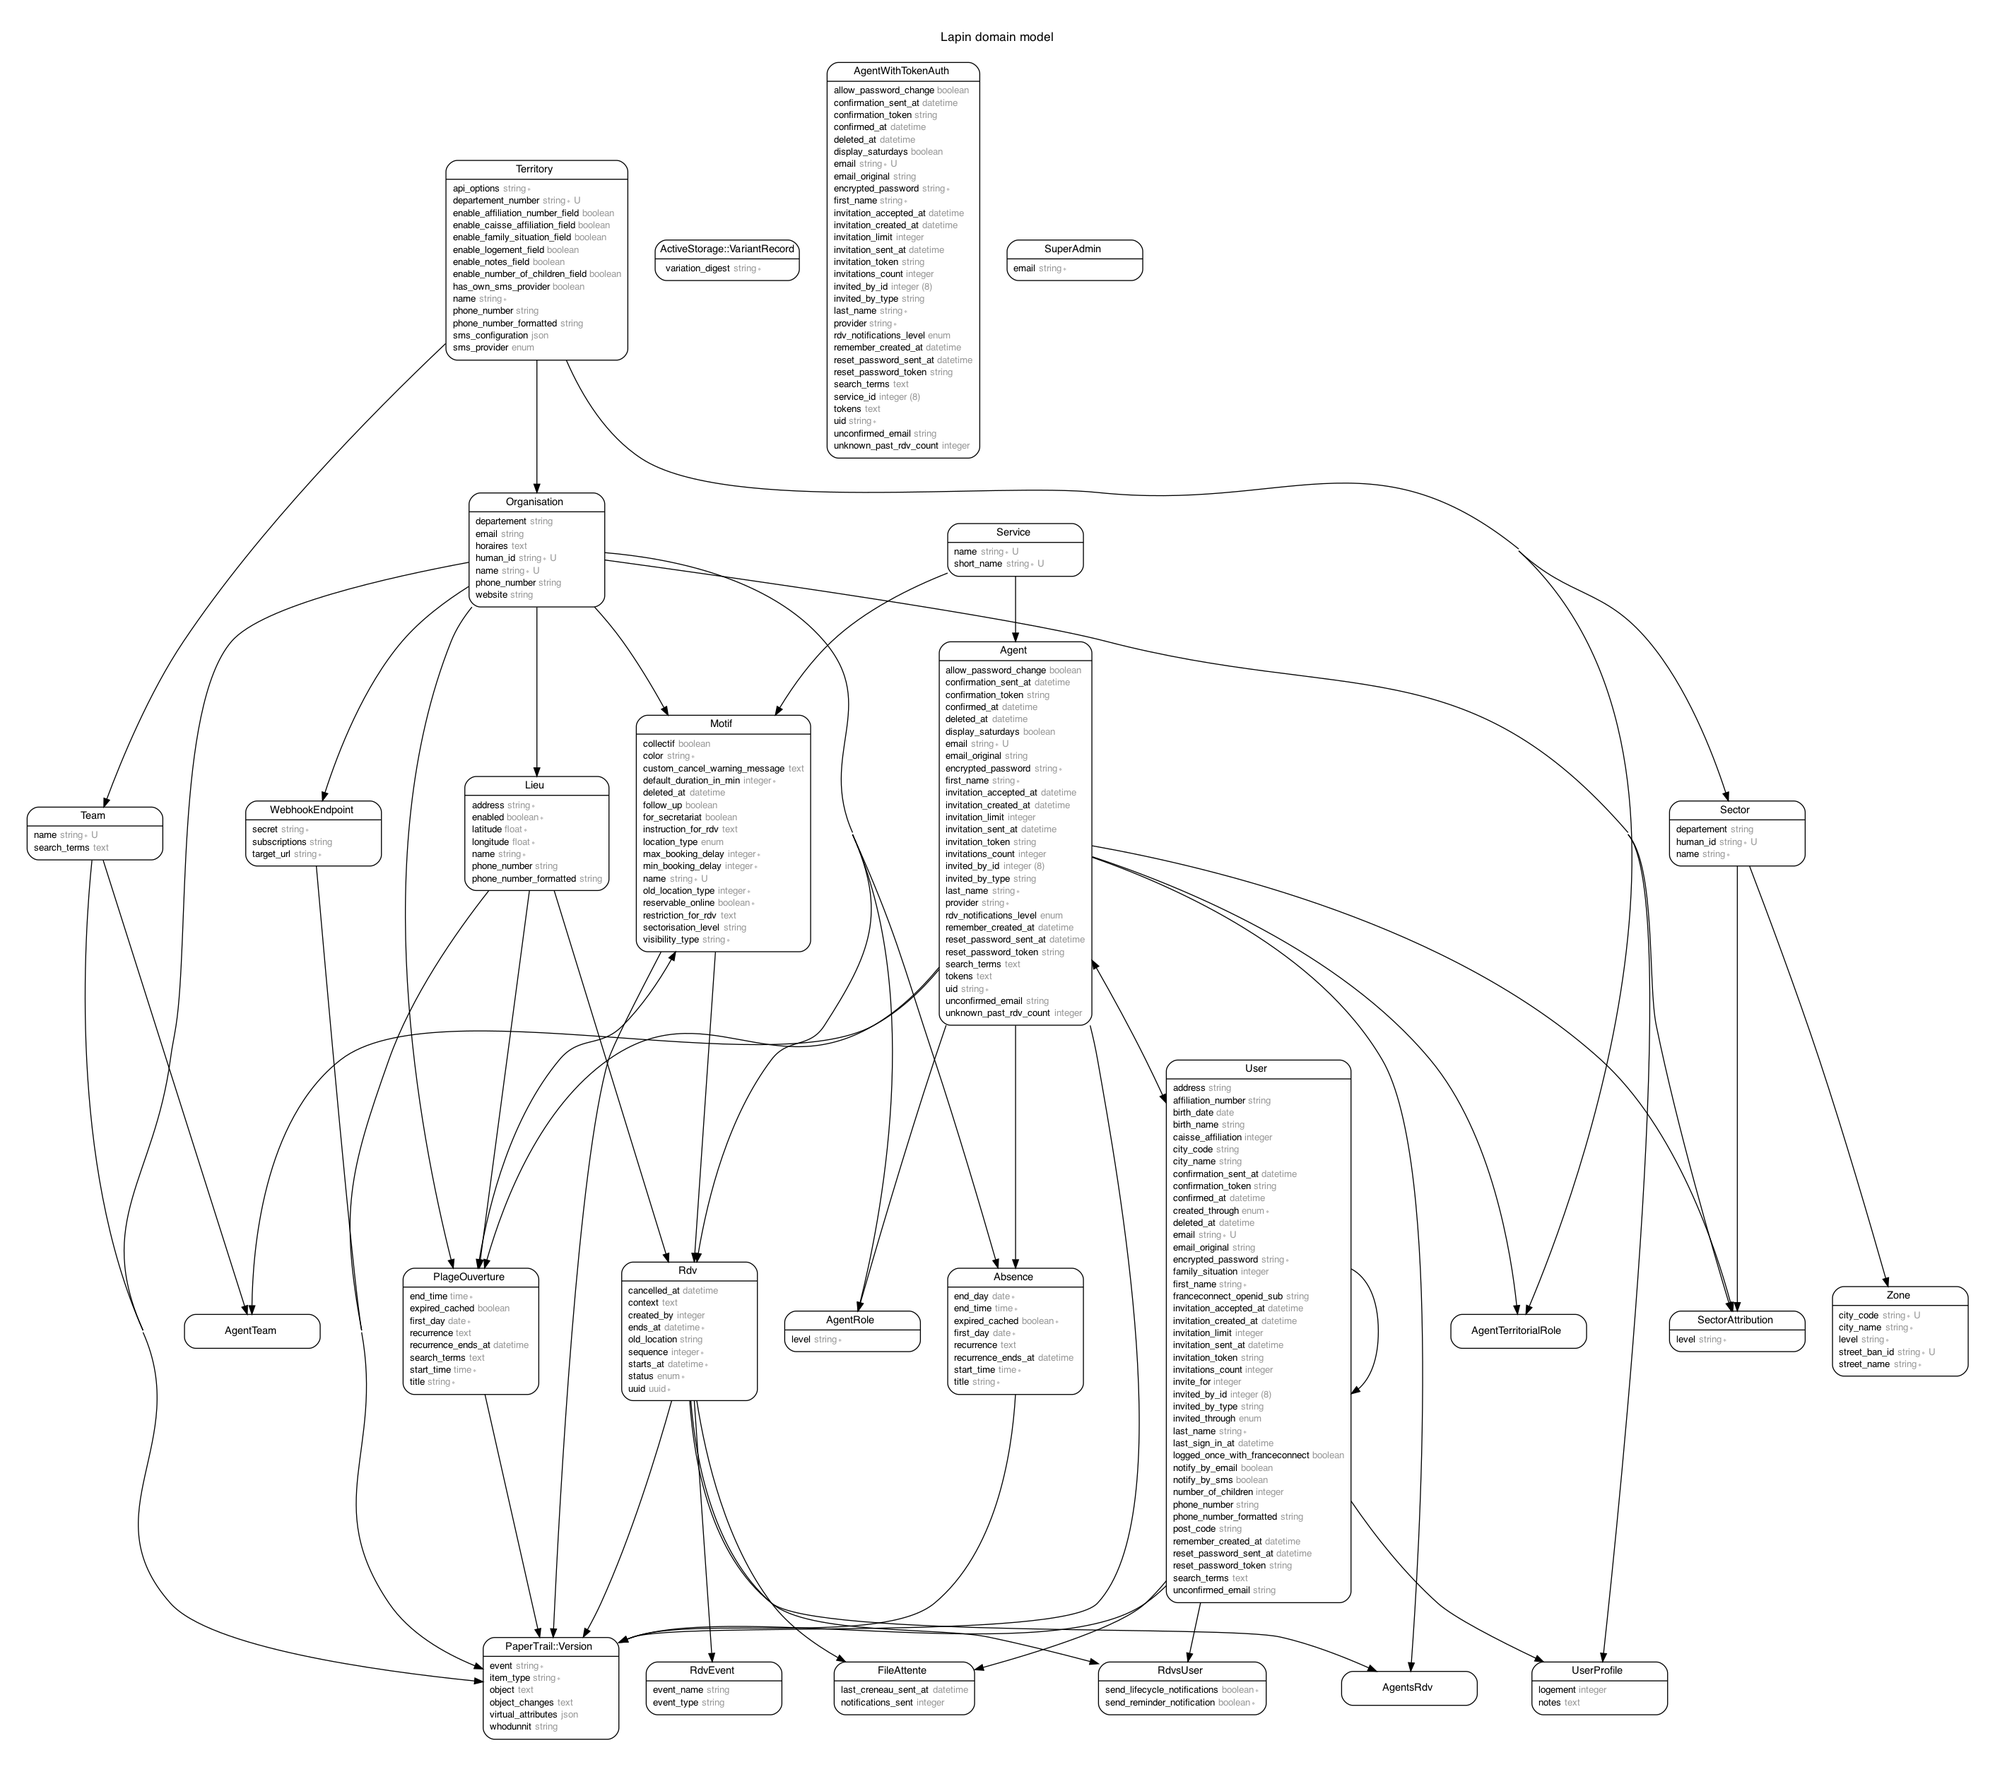
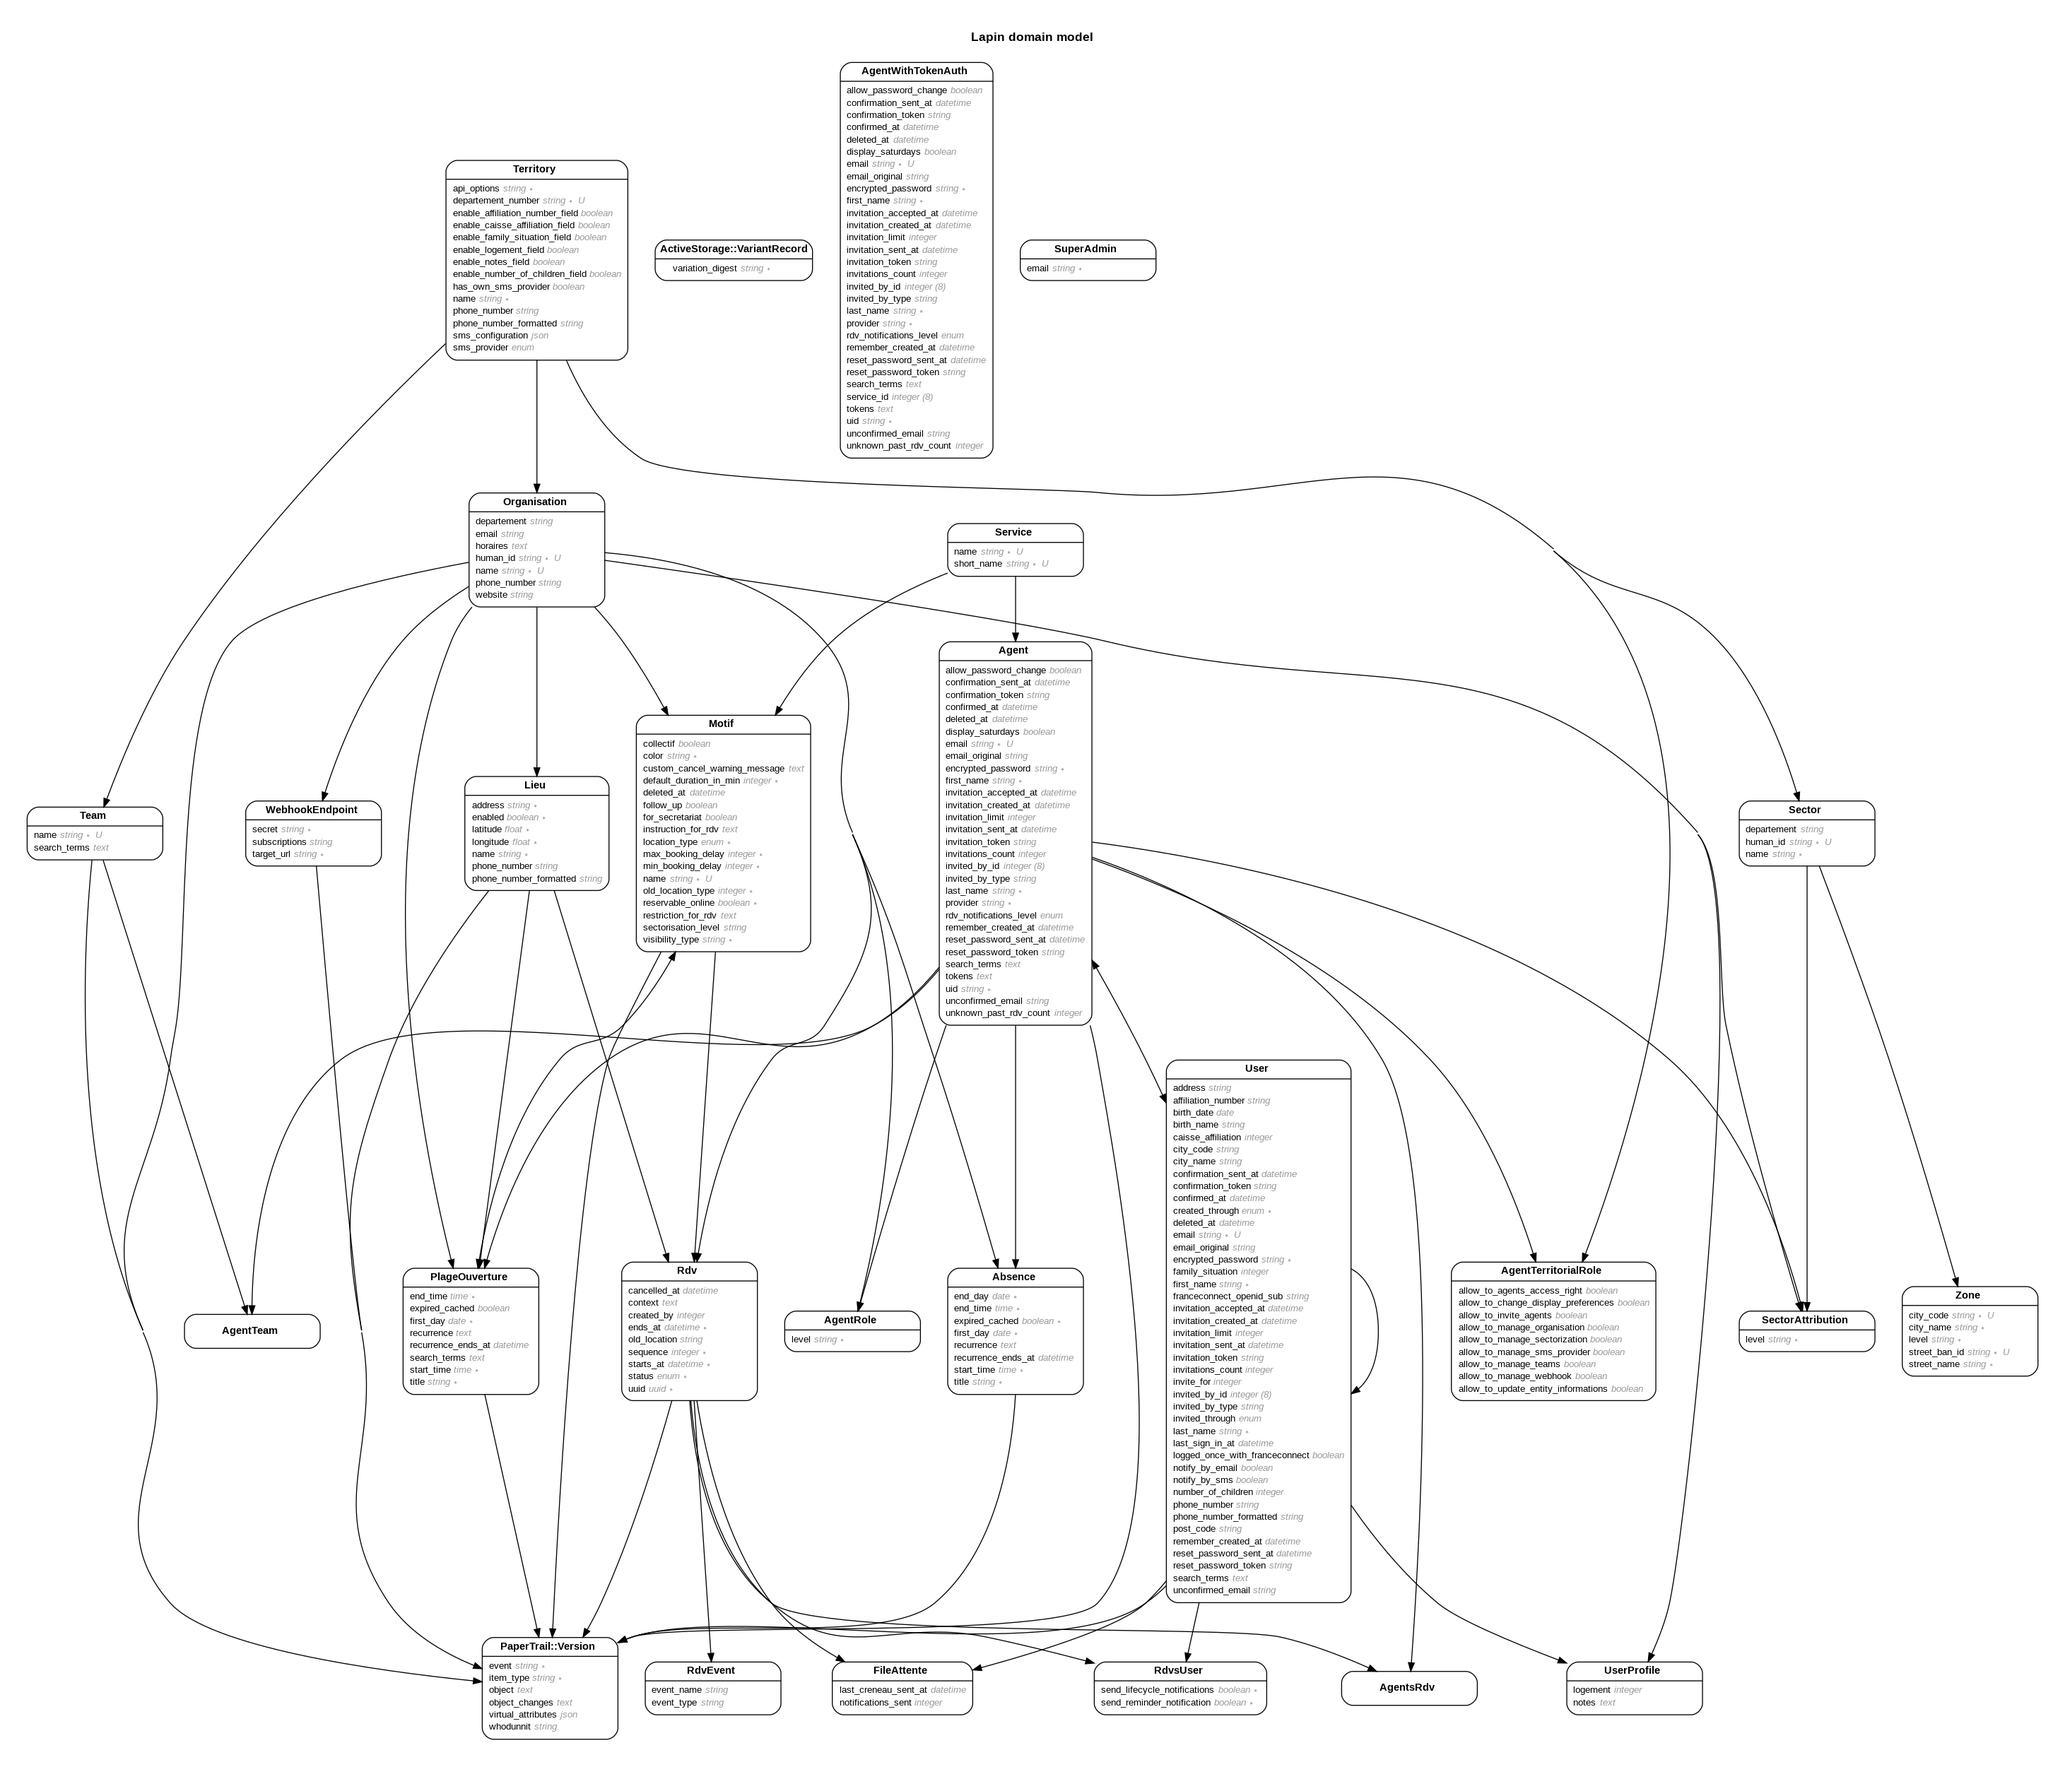
ajoute les droits de base

diff --git a/spec/controllers/admin/territories/agent_territorial_roles_controller_spec.rb b/spec/controllers/admin/territories/agent_territorial_roles_controller_spec.rb
@@ -2,15 +2,14 @@
 
 describe Admin::Territories::AgentTerritorialRolesController, type: :controller do
   render_views
-
-  let!(:territory) { create(:territory, departement_number: "62") }
-  let!(:organisation) { create(:organisation, territory: territory) }
-
-  before do
-    sign_in agent
-  end
-
   describe "#index" do
+    let!(:territory) { create(:territory, departement_number: "62") }
+    let!(:organisation) { create(:organisation, territory: territory) }
+
+    before do
+      sign_in agent
+    end
+
     context "with a few other agents" do
       let!(:territory2) { create(:territory, departement_number: "64") }
       let!(:agent) do
@@ -78,6 +77,13 @@ describe Admin::Territories::AgentTerritorialRolesController, type: :controller 
   end
 
   describe "#new" do
+    let!(:territory) { create(:territory, departement_number: "62") }
+    let!(:organisation) { create(:organisation, territory: territory) }
+
+    before do
+      sign_in agent
+    end
+
     context "territorial admin agent signed in" do
       let!(:agent) do
         create(
@@ -137,6 +143,7 @@ describe Admin::Territories::AgentTerritorialRolesController, type: :controller 
       delete :destroy, params: { territory_id: territory.id, id: target_agent_territorial_role.id }
     end
 
+    let!(:territory) { create(:territory, departement_number: "62") }
     let!(:target_agent) do
       create(
         :agent,
@@ -147,6 +154,11 @@ describe Admin::Territories::AgentTerritorialRolesController, type: :controller 
     end
     let!(:target_agent_territorial_role) do
       create(:agent_territorial_role, agent: target_agent, territory: territory)
+    end
+    let!(:organisation) { create(:organisation, territory: territory) }
+
+    before do
+      sign_in agent
     end
 
     context "territorial admin agent signed in" do
@@ -182,6 +194,26 @@ describe Admin::Territories::AgentTerritorialRolesController, type: :controller 
         expect(response).not_to be_successful
         expect(target_agent.reload.territorial_roles).not_to be_empty
       end
+    end
+  end
+
+  describe "#update" do
+    it "redirect to admin_territory_agents_path" do
+      territory = create(:territory)
+      agent = create(:agent, role_in_territories: [territory])
+      sign_in agent
+      post :update, params: { territory_id: territory.id, id: agent.territorial_roles.first.id, agent_territorial_role: { allow_to_invite_agents: true } }
+      expect(response).to redirect_to(admin_territory_agents_path(territory))
+    end
+
+    it "updates territorial_roles informations" do
+      territory = create(:territory)
+      agent = create(:agent, role_in_territories: [territory])
+      sign_in agent
+
+      expect do
+        post :update, params: { territory_id: territory.id, id: agent.territorial_roles.first.id, agent_territorial_role: { allow_to_invite_agents: true } }
+      end.to change { agent.territorial_roles.first.reload.allow_to_invite_agents }.from(false).to(true)
     end
   end
 end

diff --git a/db/migrate/20220308204223_add_access_rights_to_agent_territory_roles.rb b/db/migrate/20220308204223_add_access_rights_to_agent_territory_roles.rb
@@ -1,0 +1,33 @@
+# frozen_string_literal: true
+
+class AddAccessRightsToAgentTerritoryRoles < ActiveRecord::Migration[6.1]
+  def change
+    add_column :agent_territorial_roles, :allow_to_invite_agents, :boolean, default: false, nil: false
+    add_column :agent_territorial_roles, :allow_to_agents_access_right, :boolean, default: false, nil: false
+    add_column :agent_territorial_roles, :allow_to_manage_sectorization, :boolean, default: false, nil: false
+    add_column :agent_territorial_roles, :allow_to_manage_organisation, :boolean, default: false, nil: false
+    add_column :agent_territorial_roles, :allow_to_manage_webhook, :boolean, default: false, nil: false
+    add_column :agent_territorial_roles, :allow_to_manage_sms_provider, :boolean, default: false, nil: false
+    add_column :agent_territorial_roles, :allow_to_manage_teams, :boolean, default: false, nil: false
+    add_column :agent_territorial_roles, :allow_to_change_display_preferences, :boolean, default: false, nil: false
+    add_column :agent_territorial_roles, :allow_to_update_entity_informations, :boolean, default: false, nil: false
+
+    AgentTerritorialRole.all.each do |role|
+      role.update(
+        allow_to_invite_agents: true,
+        allow_to_agents_access_right: true,
+        allow_to_manage_sectorization: true,
+        allow_to_manage_organisation: true,
+        allow_to_manage_webhook: true,
+        allow_to_manage_sms_provider: true,
+        allow_to_manage_teams: true,
+        allow_to_change_display_preferences: true,
+        allow_to_update_entity_informations: true
+      )
+    end
+
+    Agent.all.each do |agent|
+      agent.update(territories: Territory.where(organisations: agent.organisations))
+    end
+  end
+end

diff --git a/app/controllers/admin/territories/agent_territorial_roles_controller.rb b/app/controllers/admin/territories/agent_territorial_roles_controller.rb
@@ -28,6 +28,16 @@ class Admin::Territories::AgentTerritorialRolesController < Admin::Territories::
     end
   end
 
+  def update
+    role = AgentTerritorialRole.find(params[:id])
+    authorize role
+    if role.update(agent_territorial_role_params)
+      redirect_to admin_territory_agents_path(current_territory)
+    else
+      redirect_to admin_territory_agent_path(current_territory, role.agent), flash: "errorrrrrr"
+    end
+  end
+
   def destroy
     role = AgentTerritorialRole.find(params[:id])
     authorize role
@@ -42,6 +52,15 @@ class Admin::Territories::AgentTerritorialRolesController < Admin::Territories::
   private
 
   def agent_territorial_role_params
-    params.require(:agent_territorial_role).permit(:agent_id, :territory_id)
+    params.require(:agent_territorial_role).permit(:agent_id, :territory_id,
+                                                   :allow_to_invite_agents,
+                                                   :allow_to_agents_access_right,
+                                                   :allow_to_manage_sectorization,
+                                                   :allow_to_manage_organisation,
+                                                   :allow_to_manage_webhook,
+                                                   :allow_to_manage_sms_provider,
+                                                   :allow_to_manage_teams,
+                                                   :allow_to_change_display_preferences,
+                                                   :allow_to_update_entity_informations)
   end
 end

diff --git a/db/schema.rb b/db/schema.rb
@@ -10,7 +10,7 @@
 #
 # It's strongly recommended that you check this file into your version control system.
 
-ActiveRecord::Schema.define(version: 2022_03_05_160339) do
+ActiveRecord::Schema.define(version: 2022_03_08_204223) do
 
   # These are extensions that must be enabled in order to support this database
   enable_extension "plpgsql"
@@ -135,6 +135,15 @@ ActiveRecord::Schema.define(version: 2022_03_05_160339) do
   create_table "agent_territorial_roles", force: :cascade do |t|
     t.bigint "agent_id"
     t.bigint "territory_id"
+    t.boolean "allow_to_invite_agents", default: false
+    t.boolean "allow_to_agents_access_right", default: false
+    t.boolean "allow_to_manage_sectorization", default: false
+    t.boolean "allow_to_manage_organisation", default: false
+    t.boolean "allow_to_manage_webhook", default: false
+    t.boolean "allow_to_manage_sms_provider", default: false
+    t.boolean "allow_to_manage_teams", default: false
+    t.boolean "allow_to_change_display_preferences", default: false
+    t.boolean "allow_to_update_entity_informations", default: false
     t.index ["agent_id"], name: "index_agent_territorial_roles_on_agent_id"
     t.index ["territory_id"], name: "index_agent_territorial_roles_on_territory_id"
   end

diff --git a/config/routes.rb b/config/routes.rb
@@ -108,7 +108,7 @@ Rails.application.routes.draw do
     namespace "admin" do
       resources :territories, only: %i[update show] do
         scope module: "territories" do
-          resources :agent_territorial_roles, only: %i[index new create destroy]
+          resources :agent_territorial_roles, only: %i[index new create update destroy]
           resources :webhook_endpoints, except: %i[show]
           resources :agents do
             collection do

diff --git a/app/policies/configuration/agent_territorial_role_policy.rb b/app/policies/configuration/agent_territorial_role_policy.rb
@@ -12,6 +12,7 @@ class Configuration::AgentTerritorialRolePolicy
 
   alias new? territorial_admin?
   alias create? territorial_admin?
+  alias update? territorial_admin?
   alias destroy? territorial_admin?
 
   class Scope
